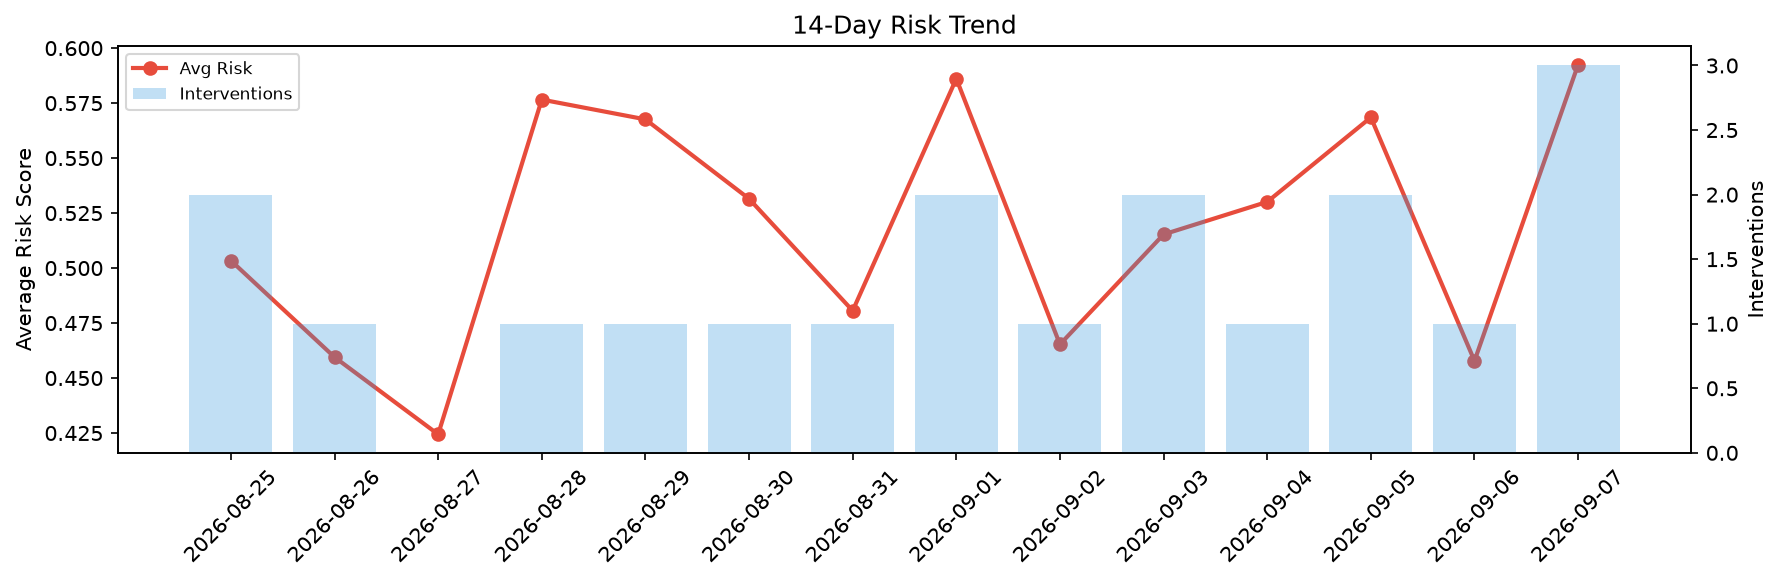
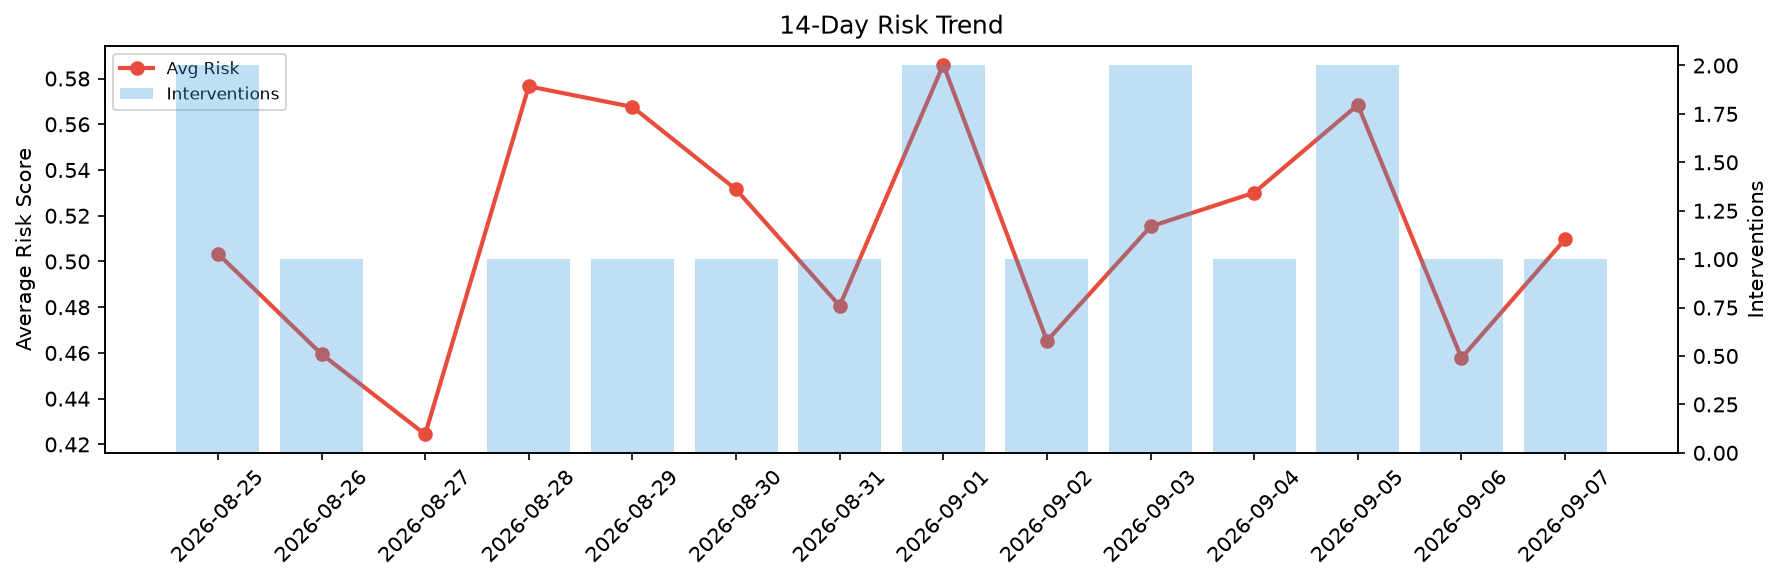
agent-improvement: daily cycle 2026-09-07T18:44

diff --git a/logs/2026-09-07.md b/logs/2026-09-07.md
@@ -1,6 +1,6 @@
 # Agent Improvement Report — 2026-09-07
 
-**Cycle ID:** `8236363c` | **Avg Risk:** 0.5925 | **Interventions:** 3/4
+**Cycle ID:** `45815005` | **Avg Risk:** 0.5097 | **Interventions:** 1/4
 
 ![Dashboard](2026-09-07_dashboard.png)
 
@@ -10,18 +10,18 @@
 
 | Domain | Risk Score | Decision | Alerts |
 |--------|-----------|----------|--------|
-| code_review | 0.6605 | intervene | complexity |
-| incident_response | 0.6245 | intervene | severity |
-| data_pipeline | 0.478 | monitor | none |
-| deployment | 0.607 | intervene | latency_p99 |
+| code_review | 0.4767 | monitor | complexity |
+| incident_response | 0.6882 | intervene | severity |
+| data_pipeline | 0.4556 | monitor | schema_drift |
+| deployment | 0.4181 | monitor | canary_error |
 
 ## Delta vs Yesterday
 
 | Domain | Today | Yesterday | Change |
 |--------|-------|-----------|--------|
-| code_review | 0.6605 | 0.2512 | 📈 162.9% |
-| incident_response | 0.6245 | 0.4725 | 📈 32.2% |
-| data_pipeline | 0.478 | 0.4722 | 📈 1.2% |
-| deployment | 0.607 | 0.6355 | 📉 -4.5% |
+| code_review | 0.4767 | 0.2512 | 📈 89.8% |
+| incident_response | 0.6882 | 0.4725 | 📈 45.7% |
+| data_pipeline | 0.4556 | 0.4722 | 📉 -3.5% |
+| deployment | 0.4181 | 0.6355 | 📉 -34.2% |
 
 **Refinement:** `{'adjustment': 'maintain', 'trend': 'improving', 'window': 4}`
